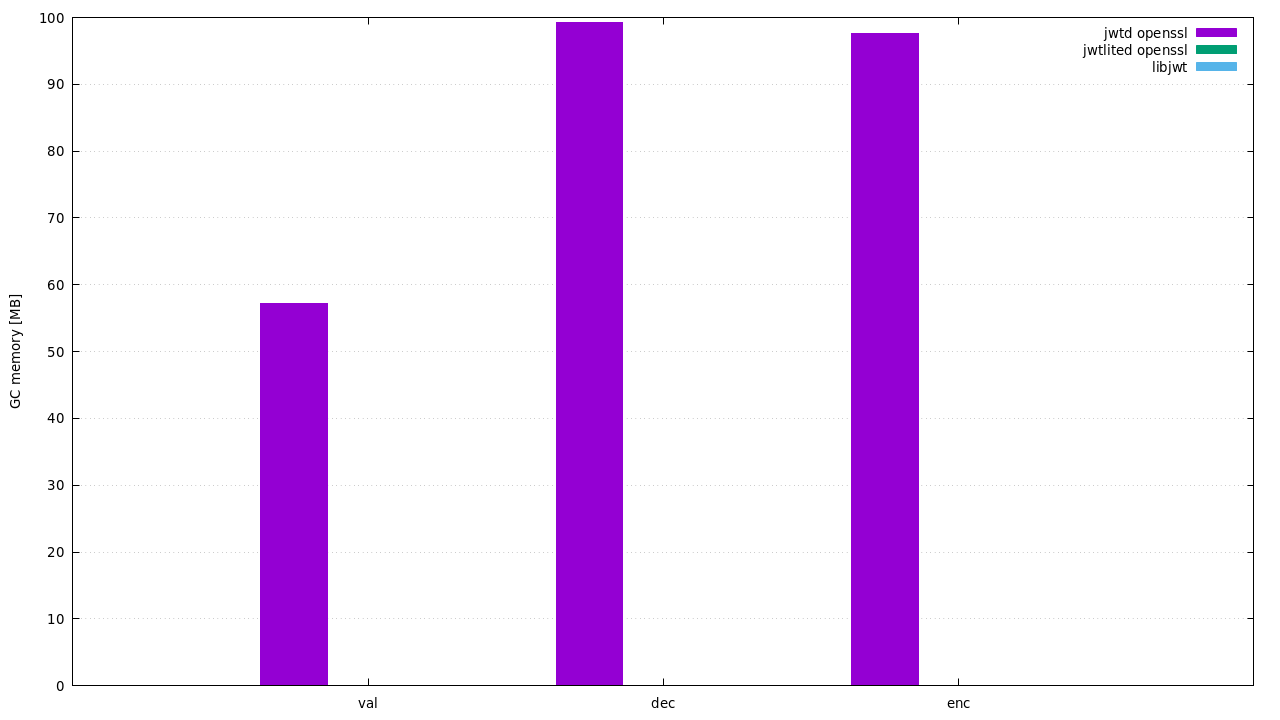
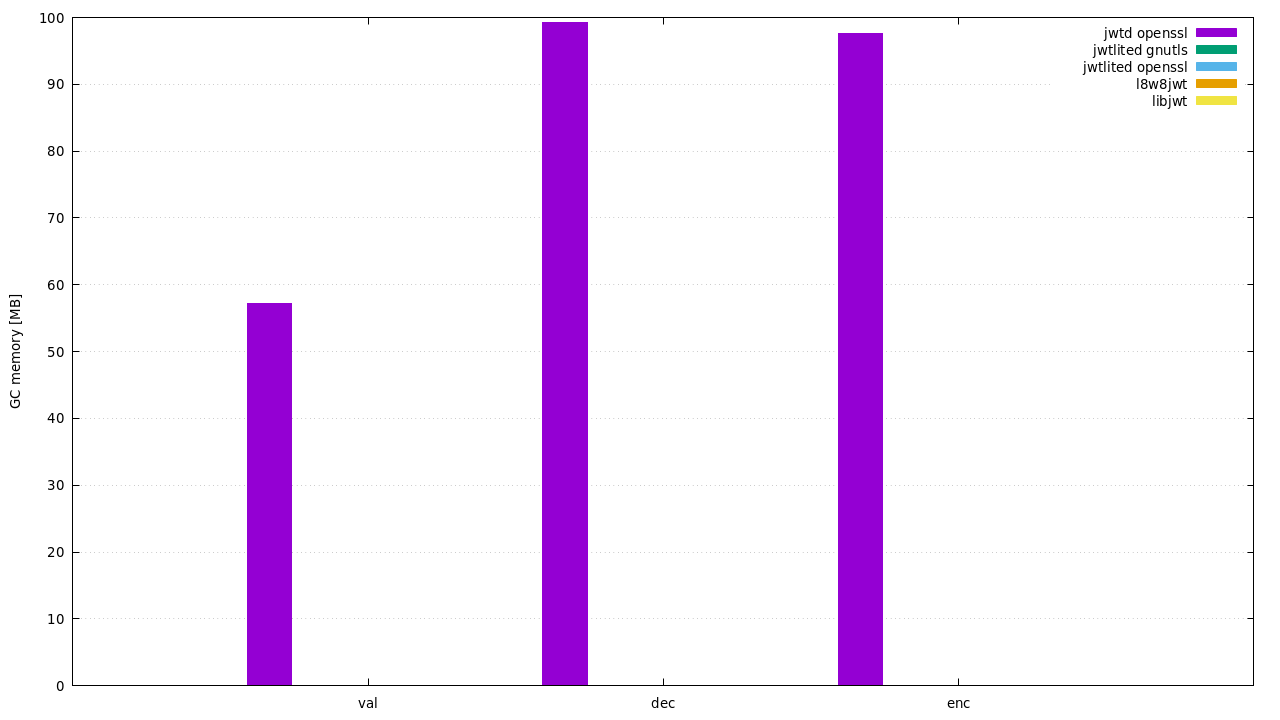
gnutls benchmarks

diff --git a/benchmarks/README.md b/benchmarks/README.md
@@ -98,21 +98,21 @@ All benchmark binaries consists pretty much with the same dlang boilerplate (eve
 
 ![results](https://github.com/tchaloupka/jwtlited/blob/main/benchmarks/results/speed_hs256.png)
 
-|     | fastjwt | jwtd botan | jwtd openssl | jwtd phobos | jwtlited openssl | jwtlited phobos | l8w8jwt | libjwt |
-|:---:| -------:| ----------:| ------------:| -----------:| ----------------:| ---------------:| -------:| ------:|
-| val |  200000 |      93879 |       461680 |      167785 |          2155172 |          206526 |  391236 | 263574 |
-| dec |  200000 |      81873 |       287852 |      138657 |          1992031 |          203998 |  399680 | 175070 |
-| enc |  172592 |      92661 |       451671 |      168123 |          2049180 |          207382 |  134661 | 217770 |
+|     | fastjwt | jwtd botan | jwtd openssl | jwtd phobos | jwtlited gnutls | jwtlited openssl | jwtlited phobos | l8w8jwt | libjwt |
+|:---:| -------:| ----------:| ------------:| -----------:| ---------------:| ----------------:| ---------------:| -------:| ------:|
+| val |  196772 |      93861 |       486854 |      169319 |         2040816 |          2369668 |          205676 |  394944 | 266240 |
+| dec |  200803 |      82304 |       292226 |      136836 |         1805054 |          2066115 |          203500 |  388500 | 172950 |
+| enc |  173310 |      91793 |       460829 |      168293 |         1923076 |          2136752 |          201857 |  131027 | 216076 |
 
 #### GC memory used
 
 ![results](https://github.com/tchaloupka/jwtlited/blob/main/benchmarks/results/gcusage_hs256.png)
 
-|     | fastjwt | jwtd botan | jwtd openssl | jwtd phobos | jwtlited openssl | jwtlited phobos | l8w8jwt | libjwt |
-|:---:| -------:| ----------:| ------------:| -----------:| ----------------:| ---------------:| -------:| ------:|
-| val | 22.8882 |    526.429 |      419.617 |     419.617 |                0 |               0 |       0 |      0 |
-| dec | 22.8882 |    946.046 |      839.234 |     839.234 |                0 |               0 |       0 |      0 |
-| enc | 22.8889 |    595.099 |      488.287 |     488.287 |                0 |               0 |       0 |      0 |
+|     | fastjwt | jwtd botan | jwtd openssl | jwtd phobos | jwtlited gnutls | jwtlited openssl | jwtlited phobos | l8w8jwt | libjwt |
+|:---:| -------:| ----------:| ------------:| -----------:| ---------------:| ----------------:| ---------------:| -------:| ------:|
+| val | 22.8882 |    526.429 |      419.617 |     419.617 |               0 |                0 |               0 |       0 |      0 |
+| dec | 22.8882 |    946.046 |      839.234 |     839.234 |               0 |                0 |               0 |       0 |      0 |
+| enc | 22.8889 |    595.099 |      488.287 |     488.287 |               0 |                0 |               0 |       0 |      0 |
 
 ### RSA RS256 signature
 
@@ -120,11 +120,11 @@ All benchmark binaries consists pretty much with the same dlang boilerplate (eve
 
 ![results](https://github.com/tchaloupka/jwtlited/blob/main/benchmarks/results/speed_rs256.png)
 
-|     | jwtd openssl | jwtlited openssl | l8w8jwt | libjwt |
-|:---:| ------------:| ----------------:| -------:| ------:|
-| val |        31969 |            58754 |   15752 |  31367 |
-| dec |        31055 |            59453 |   15873 |  29052 |
-| enc |         1150 |             1890 |     380 |   1143 |
+|     | jwtd openssl | jwtlited gnutls | jwtlited openssl | l8w8jwt | libjwt |
+|:---:| ------------:| ---------------:| ----------------:| -------:| ------:|
+| val |        32383 |           40849 |            58275 |   15757 |  31766 |
+| dec |        31269 |           40387 |            59665 |   15649 |  29922 |
+| enc |         1133 |             723 |             1924 |     379 |   1133 |
 
 ### ECDSA ES256 signature
 
@@ -132,8 +132,8 @@ All benchmark binaries consists pretty much with the same dlang boilerplate (eve
 
 ![results](https://github.com/tchaloupka/jwtlited/blob/main/benchmarks/results/speed_es256.png)
 
-|     | jwtlited openssl | l8w8jwt | libjwt |
-|:---:| ----------------:| -------:| ------:|
-| val |            17111 |     471 |  12333 |
-| dec |            16989 |     470 |  12042 |
-| enc |            48590 |     932 |  21997 |
+|     | jwtlited gnutls | jwtlited openssl | l8w8jwt | libjwt |
+|:---:| ---------------:| ----------------:| -------:| ------:|
+| val |            6182 |            17283 |     474 |  12272 |
+| dec |            6140 |            17464 |     472 |  11893 |
+| enc |           17001 |            49067 |     927 |  22114 |
